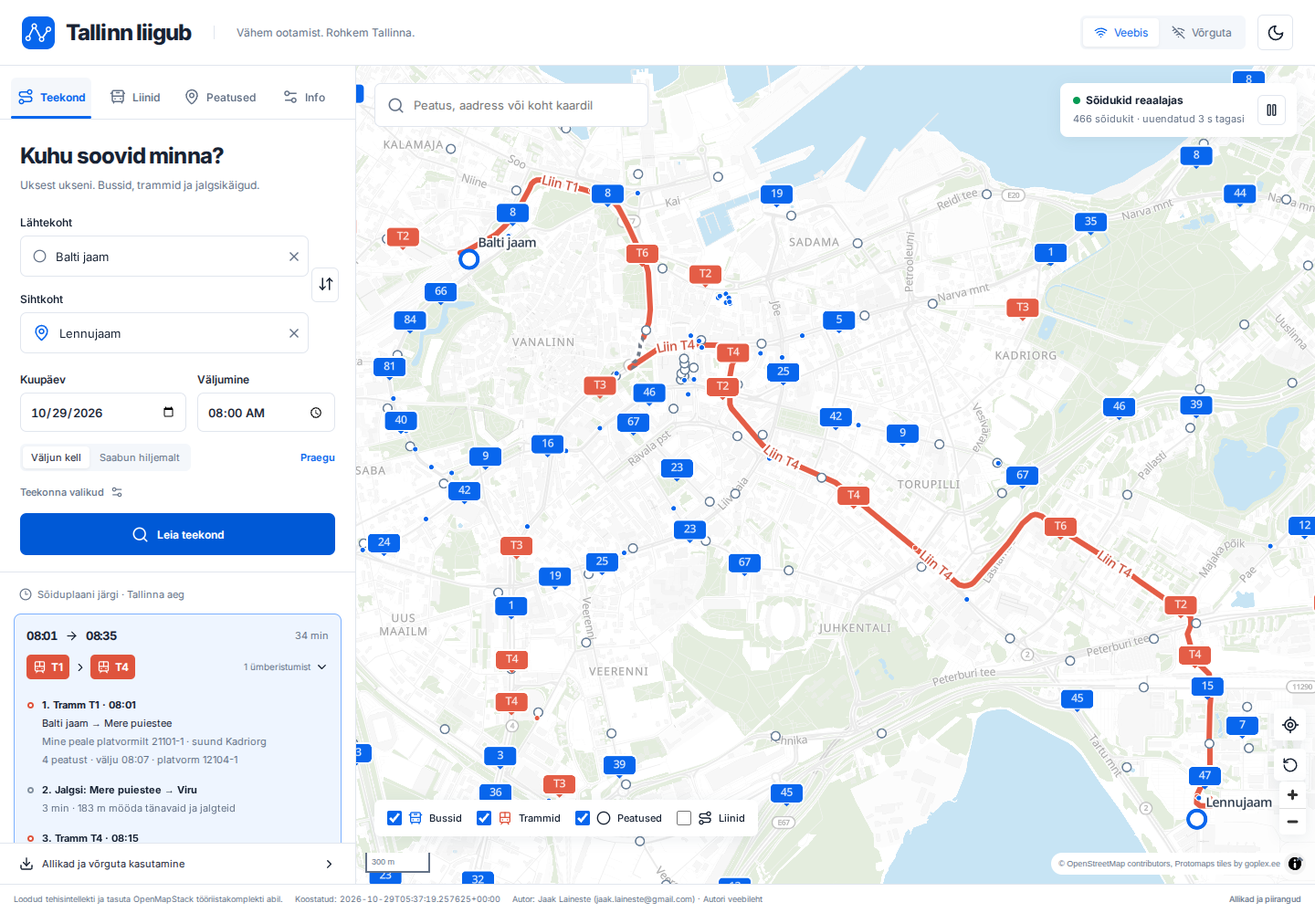
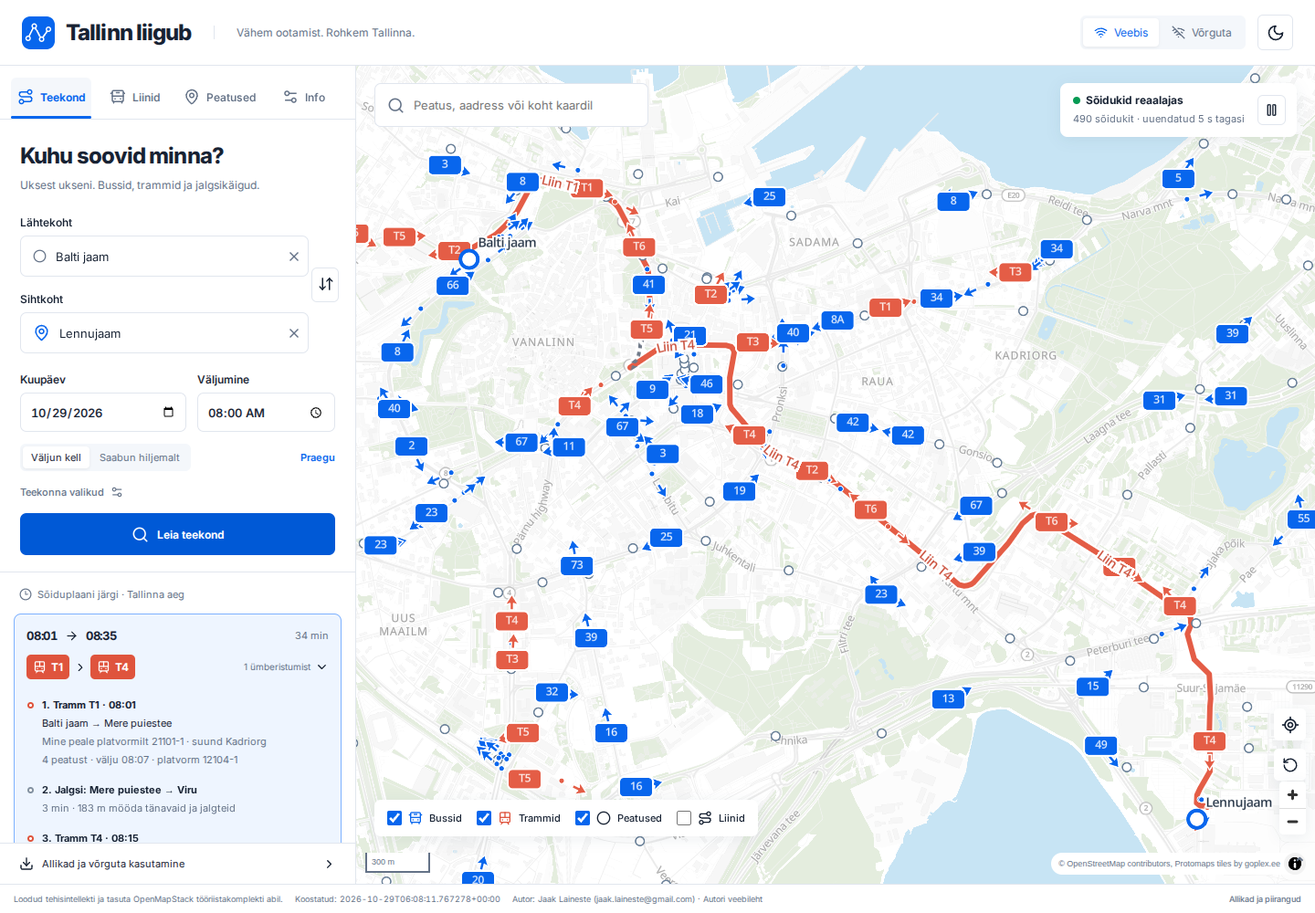
Show vehicle direction and estimated speed with Workers Cache

diff --git a/tallinn-transit/index.html b/tallinn-transit/index.html
@@ -11,7 +11,7 @@
   </head>
   <body>
     <div id="root"><p class="boot">Laadin Tallinna liikumisvõrku…</p></div>
-    <footer data-openmapstack-provenance><section data-openmapstack-credits aria-label="Delivery credits"><p>Loodud tehisintellekti ja tasuta <a data-oms-credit="toolkit" href="https://jaakla.github.io/openmapstack-skills/">OpenMapStack</a> tööriistakomplekti abil.</p><p>Koostatud: <time data-oms-credit="analysis" data-oms-clock-source="runs.latest.completed_at" datetime="2026-10-29T05:39:37.729420+00:00">2026-10-29T05:39:37.729420+00:00</time></p><p>Autor: <a data-oms-credit="author" href="mailto:jaak.laineste@gmail.com">Jaak Laineste (jaak.laineste@gmail.com)</a> · <a data-oms-credit="author-url" href="https://github.com/jaakla">Autori veebileht</a></p></section><details id="source-notes"><summary>Allikad ja piirangud</summary><a href="https://transport.tallinn.ee/data/gtfs.zip">Tallinn public transport / Tallinna Linnatransport</a> · <a href="https://tiles.goplex.ee/planet-20261006.json">OpenStreetMap contributors / Protomaps / goplex.ee</a> · <a href="https://transport.tallinn.ee/gps.txt">Tallinn public transport GPS</a> · <a href="https://download.bbbike.org/osm/bbbike/Tallinn/Tallinn.osm.pbf">OpenStreetMapi kaasautorid / BBBike</a><p>GPS näitab sõidukite viimati saadud asukohti. Üksiksõidukite mõõtmisaeg, hilinemised ja prognoositavad saabumised pole teada.</p><p>Jalgsikäigud järgivad OpenStreetMapi teedevõrku. Hoone või platvormi viimased kuni 70 meetrit võivad olla ligikaudsed; ratastooliga ligipääsetavus ja ajutised sulgemised pole kinnitatud.</p><p>Sõiduplaan ja teedevõrk on fikseeritud andmepaketis. Hilisemad muudatused ei lisandu automaatselt; sõiduplaani tuleb vähemalt kord nädalas uuendada.</p><p>Tallinna ühistranspordivood on avalikud, kuid nende standardset edasilevitamise litsentsi ei leitud. Allikaviited on säilitatud.</p><a href="findings.md">Tulemused</a> · <a href="project.yaml">Projekt</a> · <a href="validation/latest-report.json">Kontrollid</a></details></footer>
+    <footer data-openmapstack-provenance><section data-openmapstack-credits aria-label="Delivery credits"><p>Loodud tehisintellekti ja tasuta <a data-oms-credit="toolkit" href="https://jaakla.github.io/openmapstack-skills/">OpenMapStack</a> tööriistakomplekti abil.</p><p>Koostatud: <time data-oms-credit="analysis" data-oms-clock-source="runs.latest.completed_at" datetime="2026-10-29T06:08:11.767278+00:00">2026-10-29T06:08:11.767278+00:00</time></p><p>Autor: <a data-oms-credit="author" href="mailto:jaak.laineste@gmail.com">Jaak Laineste (jaak.laineste@gmail.com)</a> · <a data-oms-credit="author-url" href="https://github.com/jaakla">Autori veebileht</a></p></section><details id="source-notes"><summary>Allikad ja piirangud</summary><a href="https://transport.tallinn.ee/data/gtfs.zip">Tallinn public transport / Tallinna Linnatransport</a> · <a href="https://tiles.goplex.ee/planet-20261006.json">OpenStreetMap contributors / Protomaps / goplex.ee</a> · <a href="https://transport.tallinn.ee/gps.txt">Tallinn public transport GPS</a> · <a href="https://download.bbbike.org/osm/bbbike/Tallinn/Tallinn.osm.pbf">OpenStreetMapi kaasautorid / BBBike</a><p>GPS näitab sõidukite viimati saadud asukohti. Üksiksõidukite mõõtmisaeg, hilinemised ja prognoositavad saabumised pole teada.</p><p>Jalgsikäigud järgivad OpenStreetMapi teedevõrku. Hoone või platvormi viimased kuni 70 meetrit võivad olla ligikaudsed; ratastooliga ligipääsetavus ja ajutised sulgemised pole kinnitatud.</p><p>Sõiduplaan ja teedevõrk on fikseeritud andmepaketis. Hilisemad muudatused ei lisandu automaatselt; sõiduplaani tuleb vähemalt kord nädalas uuendada.</p><p>Tallinna ühistranspordivood on avalikud, kuid nende standardset edasilevitamise litsentsi ei leitud. Allikaviited on säilitatud.</p><a href="findings.md">Tulemused</a> · <a href="project.yaml">Projekt</a> · <a href="validation/latest-report.json">Kontrollid</a></details></footer>
[1 lines of base64/hex data omitted]
     <script type="module" src="/src/main.jsx"></script>
   </body>

diff --git a/tallinn-transit/src/MapView.jsx b/tallinn-transit/src/MapView.jsx
@@ -17,8 +17,14 @@ function markerImage(color) {
   const ctx = c.getContext('2d');
   ctx.fillStyle = color; ctx.strokeStyle = 'white'; ctx.lineWidth = 4;
   ctx.beginPath(); ctx.roundRect(3, 3, 74, 44, 10); ctx.fill(); ctx.stroke();
-  ctx.beginPath(); ctx.moveTo(33, 47); ctx.lineTo(40, 54); ctx.lineTo(47, 47); ctx.fill();
+  // Route labels stay upright; a separate map-aligned arrow shows direction.
   return ctx.getImageData(0, 0, 80, 54);
+}
+function directionImage(color) {
+  const c=document.createElement('canvas');c.width=40;c.height=40;
+  const ctx=c.getContext('2d');ctx.fillStyle=color;ctx.strokeStyle='white';ctx.lineWidth=3;ctx.lineJoin='round';
+  ctx.beginPath();ctx.moveTo(20,3);ctx.lineTo(35,27);ctx.lineTo(24,23);ctx.lineTo(24,37);ctx.lineTo(16,37);ctx.lineTo(16,23);ctx.lineTo(5,27);ctx.closePath();ctx.fill();ctx.stroke();
+  return ctx.getImageData(0,0,40,40);
 }
 function nearestIndex(points, stop, min = 0) {
   let best = Infinity, index = min;
@@ -40,9 +46,9 @@ export default memo(function MapView({ data, shapes, theme, layers, route, journ
     map.addControl(new maplibregl.NavigationControl({ showCompass:false }), 'bottom-right');
     map.addControl(new maplibregl.ScaleControl({ maxWidth:110 }), 'bottom-left');
     map.on('click', e => {
-      const ids=['vehicles','vehicle-points','stops','stations'].filter(id=>map.getLayer(id));
+      const ids=['vehicles','vehicle-directions','vehicle-points','stops','stations'].filter(id=>map.getLayer(id));
       const hit=map.queryRenderedFeatures(e.point,{layers:ids})[0];
-      if(hit?.layer.id==='vehicles'||hit?.layer.id==='vehicle-points')callbacks.current.onInspect({...cleanVehicle(hit.properties),kind:'vehicle',lon:hit.geometry.coordinates[0],lat:hit.geometry.coordinates[1]});
+      if(hit?.layer.id==='vehicles'||hit?.layer.id==='vehicle-points'||hit?.layer.id==='vehicle-directions')callbacks.current.onInspect({...cleanVehicle(hit.properties),kind:'vehicle',lon:hit.geometry.coordinates[0],lat:hit.geometry.coordinates[1]});
       else if(hit?.layer.id==='stops'){
         const stop=data.stops[Number(hit.properties.index)];callbacks.current.onInspect({...data.stations.find(s=>s.id===stop.stationId),kind:'station'});
       }else if(hit?.layer.id==='stations')callbacks.current.onInspect({...data.stations.find(s=>s.id===hit.properties.id),kind:'station'});
@@ -51,7 +57,7 @@ export default memo(function MapView({ data, shapes, theme, layers, route, journ
         callbacks.current.onInspect({kind:'point',lon:e.lngLat.lng,lat:e.lngLat.lat,name:typeof label==='string'?label:'Valitud asukoht'});
       }
     });
-    for (const id of ['stops','stations','vehicles','vehicle-points']) {
+    for (const id of ['stops','stations','vehicles','vehicle-directions','vehicle-points']) {
       map.on('mouseenter', id, () => map.getCanvas().style.cursor = 'pointer');
       map.on('mouseleave', id, () => map.getCanvas().style.cursor = '');
     }
@@ -78,6 +84,8 @@ export default memo(function MapView({ data, shapes, theme, layers, route, journ
         // adding the same image again emits an error during each theme change.
         if(!map.hasImage('bus-marker'))map.addImage('bus-marker', markerImage('#0866ed'), {pixelRatio:2});
         if(!map.hasImage('tram-marker'))map.addImage('tram-marker', markerImage('#e45d46'), {pixelRatio:2});
+        if(!map.hasImage('bus-direction'))map.addImage('bus-direction',directionImage('#0866ed'),{pixelRatio:2});
+        if(!map.hasImage('tram-direction'))map.addImage('tram-direction',directionImage('#e45d46'),{pixelRatio:2});
         for (const name of ['routes','stops','stations','vehicles','journey','selection','endpoints','nearby']) map.addSource(name,{type:'geojson',data:empty()});
         map.addLayer({id:'nearby-walks',type:'line',source:'nearby',paint:{'line-color':theme==='dark'?'#bac9d8':'#596f85','line-width':3,'line-opacity':0.5,'line-dasharray':[1,1]}});
         map.addLayer({id:'network',type:'line',source:'routes',paint:{'line-color':['match',['get','mode'],'tram','#e45d46','#0866ed'],'line-width':2,'line-opacity':0.3}});
@@ -89,8 +97,9 @@ export default memo(function MapView({ data, shapes, theme, layers, route, journ
         map.addLayer({id:'stops',type:'circle',source:'stops',minzoom:15,paint:{'circle-radius':5,'circle-color':theme==='dark'?'#192635':'#fff','circle-stroke-color':theme==='dark'?'#adc2d8':'#6b8199','circle-stroke-width':1.5}});
         map.addLayer({id:'stop-labels',type:'symbol',source:'stops',minzoom:15,layout:{'text-field':['get','name'],'text-font':['Noto Sans Regular'],'text-size':11,'text-anchor':'top','text-offset':[0,0.65]},paint:{'text-color':theme==='dark'?'#e4edf5':'#435366','text-halo-color':theme==='dark'?'#192635':'#fff','text-halo-width':1.5}});
         map.addLayer({id:'vehicle-points',type:'circle',source:'vehicles',paint:{'circle-radius':3,'circle-color':['match',['get','mode'],'tram','#e45d46','#0866ed'],'circle-stroke-color':'white','circle-stroke-width':1}});
+        map.addLayer({id:'vehicle-directions',type:'symbol',source:'vehicles',minzoom:11,filter:['all',['>=',['coalesce',['get','bearing'],-1],0],['<',['coalesce',['get','bearing'],-1],360]],layout:{'icon-image':['match',['get','mode'],'tram','tram-direction','bus-direction'],'icon-rotate':['get','bearing'],'icon-rotation-alignment':'map','icon-pitch-alignment':'map','icon-offset':[0,-22],'icon-allow-overlap':true,'icon-ignore-placement':true}});
         map.addLayer({id:'vehicles',type:'symbol',source:'vehicles',layout:{'icon-image':['match',['get','mode'],'tram','tram-marker','bus-marker'],'icon-allow-overlap':false,'text-field':['get','route'],'text-font':['Noto Sans Medium'],'text-size':12,'text-allow-overlap':false,'text-offset':[0,-0.17]},paint:{'text-color':'#fff'}});
-        map.addLayer({id:'journey-labels',type:'symbol',source:'journey',filter:['==',['get','type'],'ride'],layout:{'symbol-placement':'line','symbol-spacing':180,'text-field':['get','lineLabel'],'text-font':['Noto Sans Medium'],'text-size':14,'text-padding':6,'text-keep-upright':true},paint:{'text-color':['match',['get','mode'],'tram','#c7422c','#0057ce'],'text-halo-color':theme==='dark'?'#182432':'#fff','text-halo-width':4}});
+        map.addLayer({id:'journey-labels',type:'symbol',source:'journey',filter:['==',['get','type'],'ride'],layout:{'symbol-placement':'line','symbol-spacing':180,'text-field':['get','lineLabel'],'text-font':['Noto Sans Medium'],'text-size':14,'text-padding':6,'text-keep-upright':true,'text-allow-overlap':true,'text-ignore-placement':true},paint:{'text-color':['match',['get','mode'],'tram','#c7422c','#0057ce'],'text-halo-color':theme==='dark'?'#182432':'#fff','text-halo-width':4}});
         map.addLayer({id:'endpoint-points',type:'circle',source:'endpoints',paint:{'circle-radius':8,'circle-color':'#fff','circle-stroke-color':'#0866ed','circle-stroke-width':4}});
         map.addLayer({id:'endpoint-labels',type:'symbol',source:'endpoints',layout:{'text-field':['get','name'],'text-font':['Noto Sans Medium'],'text-size':14,'text-anchor':'bottom-left','text-offset':[0.7,-0.7],'text-allow-overlap':true},paint:{'text-color':theme==='dark'?'#fff':'#162639','text-halo-color':theme==='dark'?'#15202c':'#fff','text-halo-width':3}});
         map.addLayer({id:'selected-stop',type:'circle',source:'selection',paint:{'circle-radius':9,'circle-color':'#fff','circle-stroke-color':'#0866ed','circle-stroke-width':4}});
@@ -119,6 +128,7 @@ export default memo(function MapView({ data, shapes, theme, layers, route, journ
     map.setFilter('route-highlight', ['==',['get','route'],route ?? -1]);
     const visible = vehicles.filter(v => layers[v.mode] && (route === null || v.route === data.routes[route]?.name));
     map.getSource('vehicles').setData({type:'FeatureCollection',features:visible.map(v => feature([v.lon,v.lat],v))});
+    map.setPaintProperty('vehicle-directions','icon-opacity',stale?0.42:1);
     map.setPaintProperty('vehicles','icon-opacity',stale?0.42:1);
     map.setPaintProperty('vehicles','text-opacity',stale?0.65:1);
     map.setPaintProperty('vehicle-points','circle-opacity',stale?0.42:1);
@@ -168,7 +178,7 @@ export default memo(function MapView({ data, shapes, theme, layers, route, journ
     const heading=document.createElement('h3');heading.textContent=inspection.kind==='vehicle'?`${inspection.mode==='tram'?'Tramm':'Buss'} ${inspection.route}`:inspection.name;box.append(heading);
     const text=value=>{if(!value)return;const p=document.createElement('p');p.textContent=value;box.append(p);};
     if(inspection.kind==='vehicle'){
-      const v=cleanVehicle(inspection);if(v.headsign)text(`Suund: ${v.headsign}`);if(v.id)text(`Sõiduk ${v.id}`);if(v.speed!==null&&v.speed>=0)text(`${v.speed} km/h`);
+      const v=cleanVehicle(inspection);if(v.headsign)text(`Suund: ${v.headsign}`);if(v.id)text(`Sõiduk ${v.id}`);if(v.speed!==null&&v.speed>=0){if(v.speedSource==='estimated')text(`Hinnanguline keskmine kiirus: ~${v.speed} km/h${v.speedWindowSeconds?` (${v.speedWindowSeconds} s)`:''}`);else text(`${v.speed} km/h`);}if(v.bearingSource==='estimated')text('Liikumissuund on hinnatud hiljutiste asukohtade põhjal.');
     }else{
       if(inspection.kind==='station')text('Peatuse väljumised ja teekonna valikud');
       else text(`${inspection.lat.toFixed(5)}, ${inspection.lon.toFixed(5)}`);

diff --git a/tallinn-transit/tests/vehicle-motion.test.js b/tallinn-transit/tests/vehicle-motion.test.js
@@ -1,0 +1,62 @@
+import test from 'node:test';
+import assert from 'node:assert/strict';
+import { observeVehicles } from '../scripts/vehicle-motion.mjs';
+import { GpsFeedCache, gpsResponse } from '../scripts/gps-cache.mjs';
+const start=Date.parse('2026-10-29T08:00:00Z');
+const row=({lon=24.74,lat=59.438,bearing='',speed='',route='1',id='42'}={})=>`2,${route},${Math.round(lon*1e6)},${Math.round(lat*1e6)},${speed},${bearing},${id},Z,100,Lennujaam`;
+function run(sequence){let history={};return sequence.map(([t,args])=>{const next=observeVehicles(row(args),start+t*1000,history);history=next.history;return next;});}
+
+test('first observation has native direction but no fabricated speed',()=>{
+ const v=observeVehicles(row({bearing:90}),start).vehicles[0];assert.equal(v.bearing,90);assert.equal(v.bearingSource,'feed');assert.equal(v.speed,null);assert.equal(v.speedSource,null);
+});
+test('two northbound observations yield an approximate speed and fallback bearing',()=>{
+ const result=run([[0,{}],[10,{lat:59.439}]]).at(-1).vehicles[0];
+ assert.equal(result.bearing,0);assert.equal(result.bearingSource,'estimated');assert(result.speed>=39&&result.speed<=41);assert.equal(result.speedSource,'estimated');assert.equal(result.speedWindowSeconds,10);
+});
+test('native heading and native zero speed take priority over inferred movement',()=>{
+ const result=run([[0,{}],[10,{lat:59.439,bearing:270,speed:0}]]).at(-1).vehicles[0];
+ assert.equal(result.bearing,270);assert.equal(result.bearingSource,'feed');assert.equal(result.speed,0);assert.equal(result.speedSource,'feed');
+});
+test('recent baseline follows a turn, while average speed uses more than two points',()=>{
+ const result=run([[0,{}],[10,{lat:59.4385}],[20,{lat:59.439}],[30,{lat:59.439,lon:24.741}]]).at(-1).vehicles[0];
+ assert.equal(result.bearing,90);assert.equal(result.samples,4);assert.equal(result.speedWindowSeconds,30);assert(result.speed>15&&result.speed<30);
+});
+test('stationary jitter produces neither estimated speed nor an invented heading',()=>{
+ for(const {vehicles} of run([[0,{}],[10,{lat:59.43801}],[20,{lon:24.74001}],[30,{lat:59.43799}]])){
+  assert.equal(vehicles[0].speed,null);assert.equal(vehicles[0].bearing,null);
+ }
+});
+test('long gaps, impossible jumps and route changes reset motion estimates',()=>{
+ for(const sequence of [ [[0,{}],[70,{lat:59.439}]], [[0,{}],[10,{lat:59.5}]], [[0,{}],[10,{lat:59.439,route:'2'}]] ]){
+  const v=run(sequence).at(-1).vehicles[0];assert.equal(v.samples,1);assert.equal(v.speed,null);assert.equal(v.bearing,null);
+ }
+});
+test('duplicate source timestamps do not add points and history is time-bounded',()=>{
+ const a=observeVehicles(row(),start),b=observeVehicles(row(),start,a.history);assert.equal(b.vehicles[0].samples,1);
+ const c=observeVehicles(row({id:'43'}),start+121000,b.history);assert.deepEqual(Object.keys(c.history),['bus:43']);
+ const result=run(Array.from({length:20},(_,i)=>[i*10,{lat:59.438+i*0.0001}])).at(-1).vehicles[0];assert(result.samples<=6);assert(result.speedWindowSeconds<=40);
+});
+test('invalid heading is absent; 0 degrees is a valid north heading',()=>{
+ for(const bearing of [-1,360,'undefined',''])assert.equal(observeVehicles(row({bearing}),start).vehicles[0].bearing,null);
+ assert.equal(observeVehicles(row({bearing:0}),start).vehicles[0].bearing,0);
+});
+test('304 and cache hits never create observation points; raw CSV stays unchanged',async()=>{
+ let now=start,calls=0;
+ const feed=new GpsFeedCache({now:()=>now,fetch:async()=>++calls===1?new Response(row({bearing:45}),{headers:{'Last-Modified':new Date(start).toUTCString(),ETag:'"a"'}}):new Response(null,{status:304})});
+ const a=await feed.get();now+=10000;const b=await feed.get();
+ assert.equal(JSON.parse(b.vehiclesBody).vehicles[0].samples,1);assert.equal(a.vehiclesBody,b.vehiclesBody);
+ assert.equal(await gpsResponse(b,new Request('https://relay/gps')).text(),row({bearing:45}));
+ const res=gpsResponse(b,new Request('https://relay/vehicles'));assert(res.headers.get('Content-Type').includes('application/json'));assert.equal((await res.json()).vehicles[0].bearing,45);
+ assert.notEqual(gpsResponse(b,new Request('https://relay/gps')).headers.get('ETag'),gpsResponse(b,new Request('https://relay/vehicles')).headers.get('ETag'));
+});
+test('old persistent CSV snapshot upgrades without an extra source request',async()=>{
+ const snapshot={body:row({bearing:45}),etag:'W/"native"',validatedAt:start,upstreamRequests:1,upstreamStatus:200};
+ const r=gpsResponse(snapshot,new Request('https://relay/vehicles'),{now:start});assert.equal((await r.json()).vehicles[0].bearing,45);assert(!r.headers.get('ETag').includes('undefined'));
+});
+
+test('expired inferred values are hidden while native fields remain usable',async()=>{
+ const {cleanVehicle}=await import('../src/transit.js');
+ const value={speed:25,bearing:90,speedSource:'estimated',bearingSource:'estimated',motionObservedAt:new Date(start).toISOString()};
+ assert.equal(cleanVehicle(value,start+10000).speed,25);assert.equal(cleanVehicle(value,start+46000).speed,null);assert.equal(cleanVehicle(value,start+61000).bearing,null);
+ assert.equal(cleanVehicle({...value,speedSource:'feed',bearingSource:'feed'},start+61000).speed,25);
+});

diff --git a/tallinn-transit/tests/browser/app.spec.js b/tallinn-transit/tests/browser/app.spec.js
@@ -23,6 +23,7 @@ test('Estonian rider flows, grouped stops, actual departures and colored numbere
   const route=await page.evaluate(async()=>{const m=document.querySelector('.map-canvas').__tallinnMap;return {features:(await m.getSource('journey').getData()).features,paint:m.getPaintProperty('journey-line','line-color'),labels:m.getLayoutProperty('journey-labels','text-field')};});
   expect(route.features.some(f=>f.properties.mode==='tram'&&f.properties.lineLabel.includes('T'))).toBe(true);
   expect(JSON.stringify(route.paint)).toContain('#e45d46');expect(route.labels).toEqual(['get','lineLabel']);
+  await expect.poll(()=>page.locator('.map-canvas').evaluate(el=>{const m=el.__tallinnMap;return m.getLayer('journey-labels')?m.queryRenderedFeatures({layers:['journey-labels']}).length:0;})).toBeGreaterThan(0);
   await page.getByRole('combobox',{name:'Lähtekoht',exact:true}).fill('Balti jaam');
   await expect(page.getByRole('option').filter({hasText:'Peatus ·'}).filter({has:page.locator('strong',{hasText:/^Balti jaam$/})})).toHaveCount(1);
   await page.getByRole('option').filter({hasText:'Peatus ·'}).first().click();
@@ -38,7 +39,7 @@ test('live map positions survive pause/resume, layer toggles and repeated style 
   // a separate full-pack test with service workers enabled.
   const context=await browser.newContext({serviceWorkers:'block'}),page=await context.newPage();
   let requests=0;
-  await page.route(/\/(?:api\/)?gps(?:\?|$)/,route=>{requests++;return route.fulfill({contentType:'text/plain',body:'3,T2,24740000,59438000,,138,501,Z,179,Lennujaam',headers:{'Last-Modified':new Date().toUTCString()}});});
+  await page.route(/\/(?:api\/)?(?:gps|vehicles)(?:\?|$)/,route=>{requests++;return route.fulfill({contentType:'text/plain',body:'3,T2,24740000,59438000,,138,501,Z,179,Lennujaam',headers:{'Last-Modified':new Date().toUTCString()}});});
   await ready(page);await morning(page);await expect.poll(()=>vehicleCount(page)).toBe(1);
   const initial=requests;await page.getByRole('button',{name:'Peata asukohtade uuendamine'}).click();await expect(page.locator('.live-card')).toContainText('pausil');await expect.poll(()=>vehicleCount(page)).toBe(1);
   await page.getByRole('button',{name:'Jätka asukohtade uuendamist'}).click();await expect.poll(()=>requests).toBeGreaterThan(initial);await expect.poll(()=>vehicleCount(page)).toBe(1);
@@ -108,4 +109,18 @@ test('deployed GPS relay supports the browser HTTP cache without renewing valida
   expect(result[1].at).toBe(result[0].at);expect(result[1].count).toBe(result[0].count);expect(result[1].body).toBe(result[0].body);
   expect(result[0].policy).toBe('public, max-age=10, s-maxage=10, must-revalidate');
   await expect.poll(()=>cacheHits).toBeGreaterThan(0);
+});
+
+test('vehicle arrows follow map direction and estimated average speed is clearly labelled',async({browser})=>{
+  const context=await browser.newContext({serviceWorkers:'block'}),page=await context.newPage();
+  await page.route(/\/vehicles(?:\?|$)/,route=>route.fulfill({json:{version:1,vehicles:[{id:'motion-test',route:'T2',mode:'tram',lon:24.74,lat:59.438,bearing:90,bearingSource:'feed',speed:22,speedSource:'estimated',speedWindowSeconds:30,motionObservedAt:new Date().toISOString(),headsign:'Lennujaam'}]},headers:{'Last-Modified':new Date().toUTCString()}}));
+  await ready(page);await expect.poll(()=>vehicleCount(page)).toBe(1);
+  await page.locator('.map-canvas').evaluate(el=>el.__tallinnMap.jumpTo({center:[24.74,59.438],zoom:15,bearing:35}));
+  await page.waitForFunction(()=>document.querySelector('.map-canvas').__tallinnMap.queryRenderedFeatures({layers:['vehicle-directions']}).some(f=>f.properties.id==='motion-test'&&f.properties.bearing===90));
+  const info=await page.locator('.map-canvas').evaluate(el=>{const m=el.__tallinnMap;return{rotation:m.getLayoutProperty('vehicle-directions','icon-rotation-alignment'),textRotation:m.getLayoutProperty('vehicles','text-rotate')||0};});
+  expect(info).toEqual({rotation:'map',textRotation:0});
+  const position=await page.locator('.map-canvas').evaluate(el=>{const p=el.__tallinnMap.project([24.74,59.438]);return{x:p.x,y:p.y};});
+  await page.locator('.map-canvas').click({position});await expect(page.locator('.map-inspection')).toContainText('Hinnanguline keskmine kiirus: ~22 km/h (30 s)');
+  await expect(page.locator('.map-inspection')).not.toContainText(/undefined|null/);await expect(page.locator('.map-error')).toHaveCount(0);
+  await context.close();
 });

diff --git a/tallinn-transit/scripts/gps-worker.js b/tallinn-transit/scripts/gps-worker.js
@@ -19,7 +19,7 @@ export async function handleRequest(request, env, ctx, edgeCache = globalThis.ca
   const allowed = (env.ALLOWED_ORIGINS || env.ALLOWED_ORIGIN || '').split(',').map(x => x.trim()).filter(Boolean);
   if (origin && !allowed.includes(origin)) return new Response('Origin not allowed', { status: 403, headers: { 'Cache-Control': 'no-store', Vary: 'Origin' } });
   const cors = { Vary: 'Origin',
-    'Access-Control-Expose-Headers': 'Last-Modified, ETag, Age, Date, Retry-After, X-GPS-Validated-At, X-GPS-Upstream-Requests, X-GPS-Upstream-Status, X-GPS-Cache',
+    'Access-Control-Expose-Headers': 'CF-Cache-Status, Last-Modified, ETag, Age, Date, Retry-After, X-GPS-Validated-At, X-GPS-Upstream-Requests, X-GPS-Upstream-Status, X-GPS-Cache',
     ...(origin ? { 'Access-Control-Allow-Origin': origin } : {}),
   };
   const reply = response => {
@@ -28,7 +28,7 @@ export async function handleRequest(request, env, ctx, edgeCache = globalThis.ca
     return new Response(response.body, { status: response.status, headers });
   };
   const url = new URL(request.url);
-  if (!['/gps', '/api/gps', '/geocode', '/api/geocode'].includes(url.pathname)) return reply(new Response('Not found', { status: 404, headers: { 'Cache-Control': 'no-store' } }));
+  if (!['/gps', '/api/gps', '/geocode', '/api/geocode', '/vehicles', '/api/vehicles'].includes(url.pathname)) return reply(new Response('Not found', { status: 404, headers: { 'Cache-Control': 'no-store' } }));
   if (request.method === 'OPTIONS') return reply(new Response(null, { status: 204, headers: {
     'Access-Control-Allow-Methods': 'GET, HEAD, OPTIONS', 'Access-Control-Allow-Headers': 'If-None-Match, If-Modified-Since', 'Access-Control-Max-Age': '86400',
   } }));
@@ -40,7 +40,8 @@ export async function handleRequest(request, env, ctx, edgeCache = globalThis.ca
     } catch { return reply(Response.json({ error: 'Aadressiotsing pole saadaval.' }, { status: 502, headers: { 'Cache-Control': 'no-store' } })); }
   }
   // No query strings, conditionals or Origin in this key. CORS follows lookup.
-  const key = new Request(`${url.origin}/__gps_feed_v1`);
+  const enriched = url.pathname.endsWith('/vehicles');
+  const key = new Request(`${url.origin}/__gps_feed_v2${enriched?'-vehicles':''}`);
   let raw = await edgeCache?.match(key);
   let cached = false;
   if (raw) {
@@ -50,7 +51,7 @@ export async function handleRequest(request, env, ctx, edgeCache = globalThis.ca
   }
   if (!raw) {
     const id = env.GPS_FEED.idFromName('tallinn-public-gps-v1');
-    raw = await env.GPS_FEED.get(id, { locationHint: 'eeur' }).fetch('https://gps.internal/gps');
+    raw = await env.GPS_FEED.get(id, { locationHint: 'eeur' }).fetch(`https://gps.internal/${enriched?'vehicles':'gps'}`);
     if (raw.ok && edgeCache) {
       const remaining = Math.floor((Date.parse(raw.headers.get('X-GPS-Validated-At')) + GPS_TTL * 1000 - Date.now()) / 1000);
       if (remaining > 0) {
@@ -65,6 +66,7 @@ export async function handleRequest(request, env, ctx, edgeCache = globalThis.ca
   if (!raw.ok) return reply(raw);
   const snapshot = { body: request.method === 'HEAD' ? '' : await raw.text(), etag: raw.headers.get('ETag'), modified: raw.headers.get('Last-Modified'),
     validatedAt: Date.parse(raw.headers.get('X-GPS-Validated-At')), upstreamRequests: Number(raw.headers.get('X-GPS-Upstream-Requests')), upstreamStatus: Number(raw.headers.get('X-GPS-Upstream-Status')) };
+  if(enriched){snapshot.vehiclesBody=snapshot.body;snapshot.vehiclesEtag=snapshot.etag;}
   return reply(gpsResponse(snapshot, request, { cache: cached ? 'EDGE' : 'GLOBAL' }));
 }
 export default { fetch: handleRequest };

diff --git a/tallinn-transit/tests/gps-cache.test.js b/tallinn-transit/tests/gps-cache.test.js
@@ -103,7 +103,7 @@ test('regional cache shares all origins and query variants without extending fre
   assert.equal(c.status, 304);assert.equal(await c.text(), '');assert.equal(f.objectCalls(), 1);
   for (const entry of f.entries.values()) {
     const headers = new Headers(entry.headers);headers.set('X-GPS-Validated-At', new Date(Date.now() - 11000).toISOString());
-    f.entries.set('https://relay.example/__gps_feed_v1', new Response(body, { headers }));
+    f.entries.set('https://relay.example/__gps_feed_v2', new Response(body, { headers }));
   }
   const d = await f.send();assert.equal(d.headers.get('X-GPS-Cache'), 'GLOBAL');assert.equal(f.objectCalls(), 2);assert.equal(f.calls.length, 1);
 });
@@ -121,4 +121,14 @@ test('browser cache hits retain validation age rather than becoming new GPS fixe
   assert.equal(gpsValidatedAt(new Headers({ 'X-GPS-Validated-At': new Date(at).toISOString() }), now), at);
   assert.equal(gpsValidatedAt(new Headers({ Age: '8' }), now), now - 8000);
   assert.equal(gpsValidatedAt(new Headers({ 'X-GPS-Validated-At': new Date(now + 1000).toISOString() }), now), now);
+});
+
+test('enriched JSON and legacy CSV share a refresh but have independent caches and ETags',async()=>{
+ const f=workerFixture();f.cache.now=Date.now;
+ const raw=await f.send('/gps'), json=await f.send('/vehicles');
+ assert.equal(json.status,200);assert(json.headers.get('Content-Type').includes('application/json'));
+ const data=await json.json();assert.equal(data.vehicles[0].bearing,138);assert.equal(data.vehicles[0].bearingSource,'feed');
+ assert.notEqual(raw.headers.get('ETag'),json.headers.get('ETag'));assert.equal(f.calls.length,1);
+ const cached=await f.send('/api/vehicles?client=2');assert.equal(cached.headers.get('X-GPS-Cache'),'EDGE');assert.equal((await cached.json()).vehicles[0].bearing,138);
+ const conditional=await f.send('/vehicles','https://jaakla.github.io',{'If-None-Match':json.headers.get('ETag')});assert.equal(conditional.status,304);assert.equal(await conditional.text(),'');assert.equal(f.calls.length,1);
 });

diff --git a/tallinn-transit/src/transit.js b/tallinn-transit/src/transit.js
@@ -190,8 +190,11 @@ export function finiteNumber(value) {
   if(value===null||value===undefined||(typeof value==='string'&&!value.trim())||typeof value==='boolean')return null;
   const n=Number(value);return Number.isFinite(n)?n:null;
 }
-export function cleanVehicle(vehicle) {
-  return {...vehicle,speed:finiteNumber(vehicle.speed),bearing:finiteNumber(vehicle.bearing),
+export function cleanVehicle(vehicle, now=Date.now()) {
+  const age=now-Date.parse(vehicle.motionObservedAt);
+  const speed=vehicle.speedSource==='estimated'&&age>45000?null:finiteNumber(vehicle.speed);
+  const bearing=vehicle.bearingSource==='estimated'&&age>60000?null:finiteNumber(vehicle.bearing);
+  return {...vehicle,speed:speed!==null&&speed>=0?speed:null,bearing:bearing!==null&&bearing>=0&&bearing<360?bearing:null,
     headsign:typeof vehicle.headsign==='string'&&!['undefined','null'].includes(vehicle.headsign)?vehicle.headsign:''};
 }
 export function normalize(text) { return String(text).normalize('NFD').replace(/[\u0300-\u036f]/g, '').toLocaleLowerCase('et'); }
@@ -210,10 +213,10 @@ export function parseGPS(text) {
     const [type, route, lonRaw, latRaw, speed, bearing, id, ...rest] = line.split(',');
     const lon = Number(lonRaw) / 1e6, lat = Number(latRaw) / 1e6;
     if (!id || !route || !lonRaw || !latRaw || !Number.isFinite(lon) || !Number.isFinite(lat) || lon < 24.3 || lon > 25.2 || lat < 59.2 || lat > 59.65) continue;
-    vehicles.push({ id, route: route.trim(), lon, lat, mode: type === '3' ? 'tram' : 'bus',
-      bearing: bearing !== '' && Number(bearing) < 360 ? Number(bearing) : null,
+    vehicles.push(cleanVehicle({ id, route: route.trim(), lon, lat, mode: type === '3' ? 'tram' : 'bus',
+      bearing: finiteNumber(bearing),
       speed: finiteNumber(speed),
-      headsign: rest.slice(2).join(',') });
+      headsign: rest.slice(2).join(',') }));
   }
   if (!vehicles.length) throw new Error('GPS response contains no valid Tallinn vehicle positions.');
   return vehicles;

diff --git a/tallinn-transit/vite.config.js b/tallinn-transit/vite.config.js
@@ -1,22 +1,19 @@
 import { defineConfig } from 'vite';
 import react from '@vitejs/plugin-react';
 import { geocode } from './scripts/services.mjs';
+import { GpsFeedCache, gpsResponse, gpsError } from './scripts/gps-cache.mjs';
+const feed=new GpsFeedCache();
 
 // Fixed public GPS and In-ADS endpoints; journey calculations stay in the browser.
 export default defineConfig({
   base: './',
-  plugins: [react(),{name:'tallinn-address-search',configureServer(server){server.middlewares.use('/api/geocode',async(req,res)=>{
+  plugins: [react(),{name:'tallinn-address-search',configureServer(server){
+    for(const endpoint of ['/api/gps','/api/vehicles'])server.middlewares.use(endpoint,async(req,res)=>{
+      let response;try{response=gpsResponse(await feed.get(),new Request(`http://localhost${endpoint}`,{method:req.method,headers:req.headers}));}catch(error){response=gpsError(error);}
+      res.writeHead(response.status,Object.fromEntries(response.headers));res.end(req.method==='HEAD'?undefined:await response.text());
+    });
+    server.middlewares.use('/api/geocode',async(req,res)=>{
     try{const q=new URL(req.url,'http://localhost').searchParams.get('q');res.setHeader('Content-Type','application/json; charset=utf-8');res.end(JSON.stringify(await geocode(q)));}
     catch(e){res.statusCode=502;res.end(JSON.stringify({error:e.message}));}
   });}}],
-  server: {
-    proxy: {
-      '/api/gps': {
-        target: 'https://transport.tallinn.ee',
-        changeOrigin: true,
-        rewrite: () => '/gps.txt?x=1',
-        headers: { 'User-Agent': 'Mozilla/5.0', Referer: 'https://transport.tallinn.ee/' },
-      },
-    },
-  },
 });

diff --git a/tallinn-transit/src/useTransit.js b/tallinn-transit/src/useTransit.js
@@ -1,6 +1,6 @@
 import { useEffect, useRef, useState, useCallback } from 'react';
 import { asset, registerOffline } from './offline.js';
-import { parseGPS, gpsValidatedAt } from './transit.js';
+import { parseGPS, gpsValidatedAt, cleanVehicle } from './transit.js';
 
 export function useNetwork() {
   const [state, setState] = useState({ data: null, shapes: null, project: null, error: '' });
@@ -63,7 +63,8 @@ export function useLive(paused, endpoint,enabled=true) {
       try {
         const response = await fetch(endpoint, { cache: 'default', credentials: 'omit', signal: AbortSignal.any([controller.signal, AbortSignal.timeout(12000)]) });
         if (!response.ok) throw new Error('Sõidukite asukohti ei õnnestunud uuendada.');
-        const vehicles = parseGPS(await response.text());
+        const json=response.headers.get('content-type')?.includes('application/json');
+        const vehicles=json?(await response.json()).vehicles.map(v=>cleanVehicle(v)):parseGPS(await response.text());
         const modifiedAt = Date.parse(response.headers.get('last-modified'));
         if (!cancelled) {setNow(Date.now());setState({ vehicles, fetchedAt: gpsValidatedAt(response.headers), modifiedAt: Number.isFinite(modifiedAt) ? modifiedAt : null, error: '', loading: false });}
       } catch (error) {

diff --git a/tallinn-transit/src/App.jsx b/tallinn-transit/src/App.jsx
@@ -75,7 +75,7 @@ function TransitApp({data,shapes,project,walking}) {
   const [mode,setMode]=useState(()=>!navigator.onLine?'offline':localStorage.getItem('tallinn-mode')||'online'),[connected,setConnected]=useState(navigator.onLine);
   const [paused,setPaused]=useState(false),[progress,setProgress]=useState(null),[notice,setNotice]=useState(''),[mapReady,setMapReady]=useState(false);
   const online=mode==='online'&&connected;
-  const router=useRouter(data,walking),live=useLive(paused,import.meta.env.VITE_GPS_URL||api('gps'),online&&progress===null);
+  const router=useRouter(data,walking),live=useLive(paused,import.meta.env.VITE_GPS_URL||api('vehicles'),online&&progress===null);
   const latestSearch=useRef(0);
   useEffect(()=>{document.documentElement.dataset.theme=theme;localStorage.setItem('tallinn-theme',theme);},[theme]);
   useEffect(()=>{

diff --git a/tallinn-transit/README.md b/tallinn-transit/README.md
@@ -115,7 +115,8 @@ see piirang on projekti päritoluinfos säilitatud.
 
 Tootmisversioon kasutab avaldatud serverless API-t:
 **https://tallinn-transit-api.jaak-laineste.workers.dev/**.
-`GET /gps` vahendab Tallinna sõidukeid, `GET /geocode?q=...` In-ADS-i aadresse.
+`GET /gps` säilitab Tallinna algse CSV-voo, `GET /vehicles` tagastab sõidukid koos
+suuna ja hinnangulise keskmise kiirusega JSON-kujul; `GET /geocode?q=...` otsib In-ADS-i aadresse.
 `dist/` avaldatakse hoidla GitHub Pagesi töövoos alamkataloogi `tallinn-transit/`.
 Töövoog koostab kanoonilise andmepaketi ja käivitab ühik- ning brauseritestid.
 GPS-i ja aadressiotsingu Worker on eraldi avaldatud. Teekonnad arvutatakse
@@ -145,10 +146,12 @@ välja lülitatud. API võtmeid rakenduse kasutamiseks ei vaja.
   algsest 10-sekundilisest aknast järele jäänud aja. Päringuparameetrid ja lubatud
   origin'id ei tekita eraldi GPS-koopiaid. Cache API üksi pole globaalne, mistõttu
   on algallika koormuse piiramiseks vajalik ühine Durable Object.
-- Piirkondlik vahemälu asub Cloudflare'i servas, kuid seda loetakse Workeri
-  `caches.default` kaudu. Võrgupäring käivitab Workeri ka vahemälutabamuse korral;
-  tabamus jätab ära Durable Objecti ja algallika päringu. Brauseri HTTP-vahemälu
-  tabamus jätab ära ka Workeri päringu. Aadressiotsing ei kasuta jagatud vahemälu.
+- Workeri ees on lisaks uus **Workers Cache**, sisse lülitatud seadega
+  `cache.enabled: true`. `CF-Cache-Status: HIT` tähendab, et vastus väljastati
+  Workerit käivitamata. See austab `Vary: Origin`, `ETag`-i ja 10-sekundilist
+  värskusakent; vigu ega aadressiotsingut ei salvestata (`no-store`).
+  Workeri sees säilib `caches.default` piirkondliku vahemäluna ja Durable Object
+  globaalse algallikapiiranguna. Brauseri HTTP-vahemälu väldib ka CDN-päringut.
 - Algallikale saadetakse eelmine `If-None-Match` ja `If-Modified-Since`.
   2026-10-29 päriskontroll kinnitas `304 Not Modified` tuge, null andmebaidiga.
   Algallikas andis `ETag`-i ja `Last-Modified` päised, kuid mitte `Cache-Control`-i.
@@ -169,6 +172,26 @@ Viimase avaldamise ja päriskontrolli andmed on `deployment/worker.json`.
 
 Cloudflare'i alusdokumendid: [Cache API](https://developers.cloudflare.com/workers/runtime-apis/cache/)
 ja [Durable Objectsi püsiv olek](https://developers.cloudflare.com/durable-objects/best-practices/access-durable-objects-storage/).
+
+## Sõidukite suund ja hinnanguline kiirus
+
+Kaardi liininumber jääb püstiseks ja eraldi nool järgib kaardi pööramist.
+Eelistatakse algallika suunanurka. Puuduvat suunda saab hinnata vähemalt 15 m
+liikumise põhjal, kasutades viimast piisava pikkusega kahe punkti vahet; see
+väldib eelmise tänava suuna ülemäärast keskmistamist pärast pööret.
+
+Globaalses Durable Objectis hoitakse kuni kuut hiljutist vaatlust sõiduki kohta.
+Keskmine kiirus arvutatakse kuni 40 s aknas asukohapunktide vaheliste kauguste
+ja voo vaatlusaegade põhjal ning kuvatakse kujul **Hinnanguline keskmine kiirus: ~22 km/h (30 s)**.
+Puuduv või ebaselge väärtus jäetakse välja. Algallika tegelik kiirus, kui see on
+olemas, on eelistatud. Seisva sõiduki GPS-värinast ei tehta nullkiiruse mõõtmist.
+
+Need on voo vaatluste põhjal arvutatud hinnangud: voos puudub sõiduki enda
+mõõtmise ajatempel. Need ei ole mõõdetud hetkkiirus ega saabumisprognoos.
+HTTP 304 ja vahemälutabamused ei lisa vaatluspunkti. Üle 60 s paus, liinivahetus
+või üle 120 km/h eeldav asukohahüpe alustab uut seeriat; kadunud sõidukite ajalugu
+aegub 120 s järel. Ajaloos hoitakse kõige rohkem 1500 sõidukit ning lisapäringuid
+algallikasse ei tehta. Üle 45 s vanu hinnangulisi kiirusi brauser enam ei kuva.
 
 ## Kontrollimine ja kordamine
 

diff --git a/README.md b/README.md
@@ -4,7 +4,7 @@ Source-backed geospatial applications built with [OpenMapStack](https://github.c
 
 ## Tallinn liigub
 
-Tallinn bus and tram map with live GPS vehicles, route and platform search, scheduled departures, and local departure-time/arrival-deadline journey planning. Save the app, GTFS schedules and city basemap for offline use. A small relay handles public GPS requests; journeys stay on the device.
+Tallinn bus and tram map with live vehicles, direction arrows and clearly labelled average-speed estimates, stop and address search, scheduled departures, and local departure-time/arrival-deadline journey planning. Save the app, GTFS schedules and city basemap for offline use. A small relay handles public GPS requests; journeys stay on the device.
 
 - [Run locally, sources, tests and reproducible pipeline](tallinn-transit/README.md)
 - [Open the public app](https://jaakla.github.io/openmapstack-samples/tallinn-transit/)
